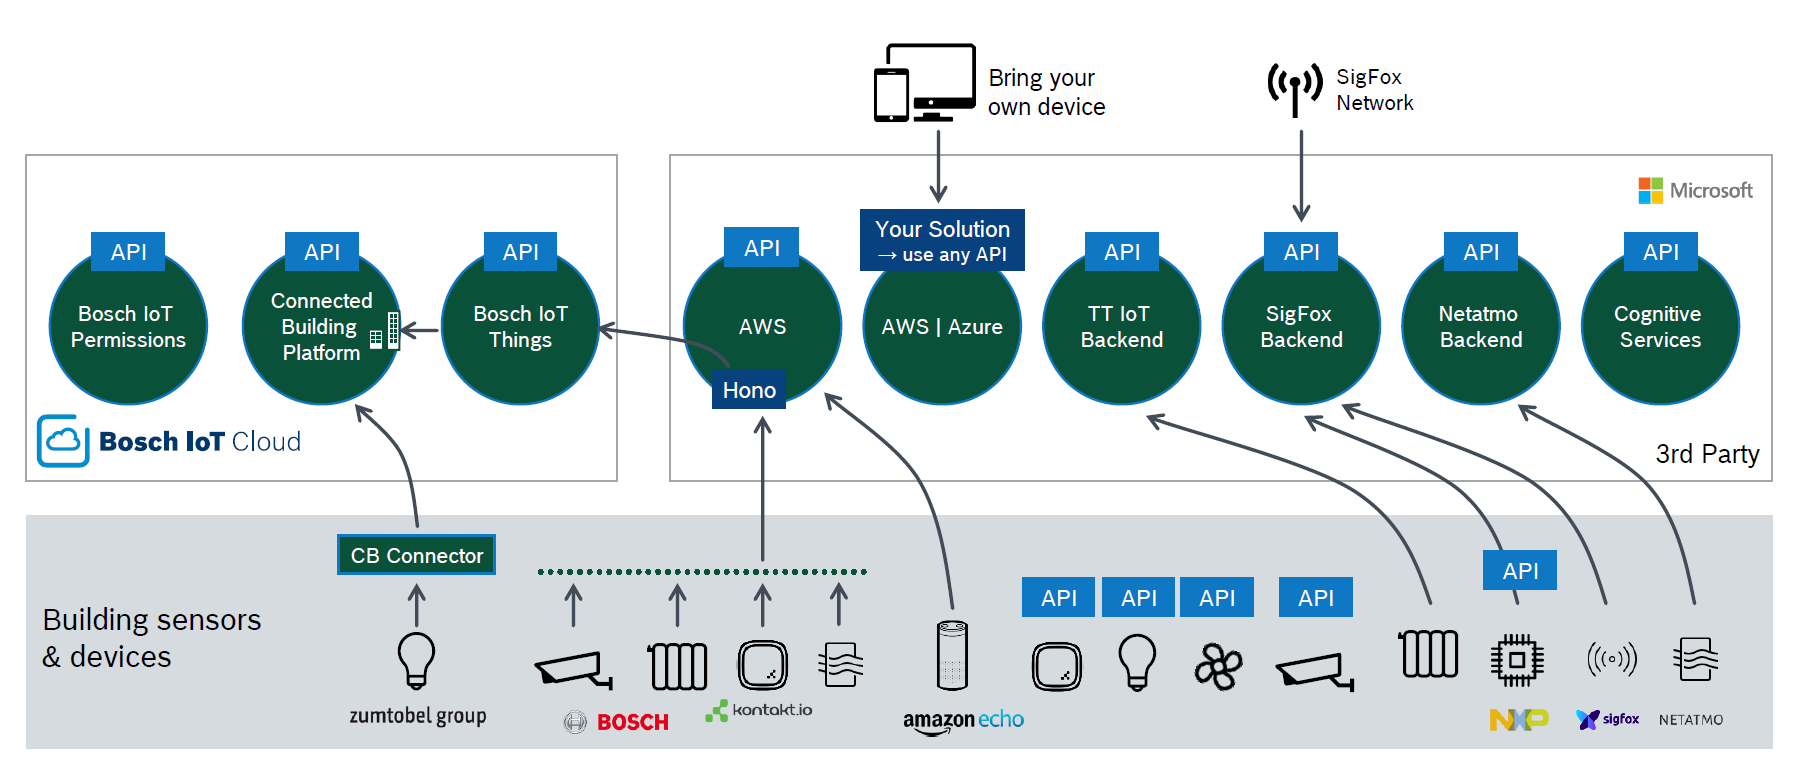
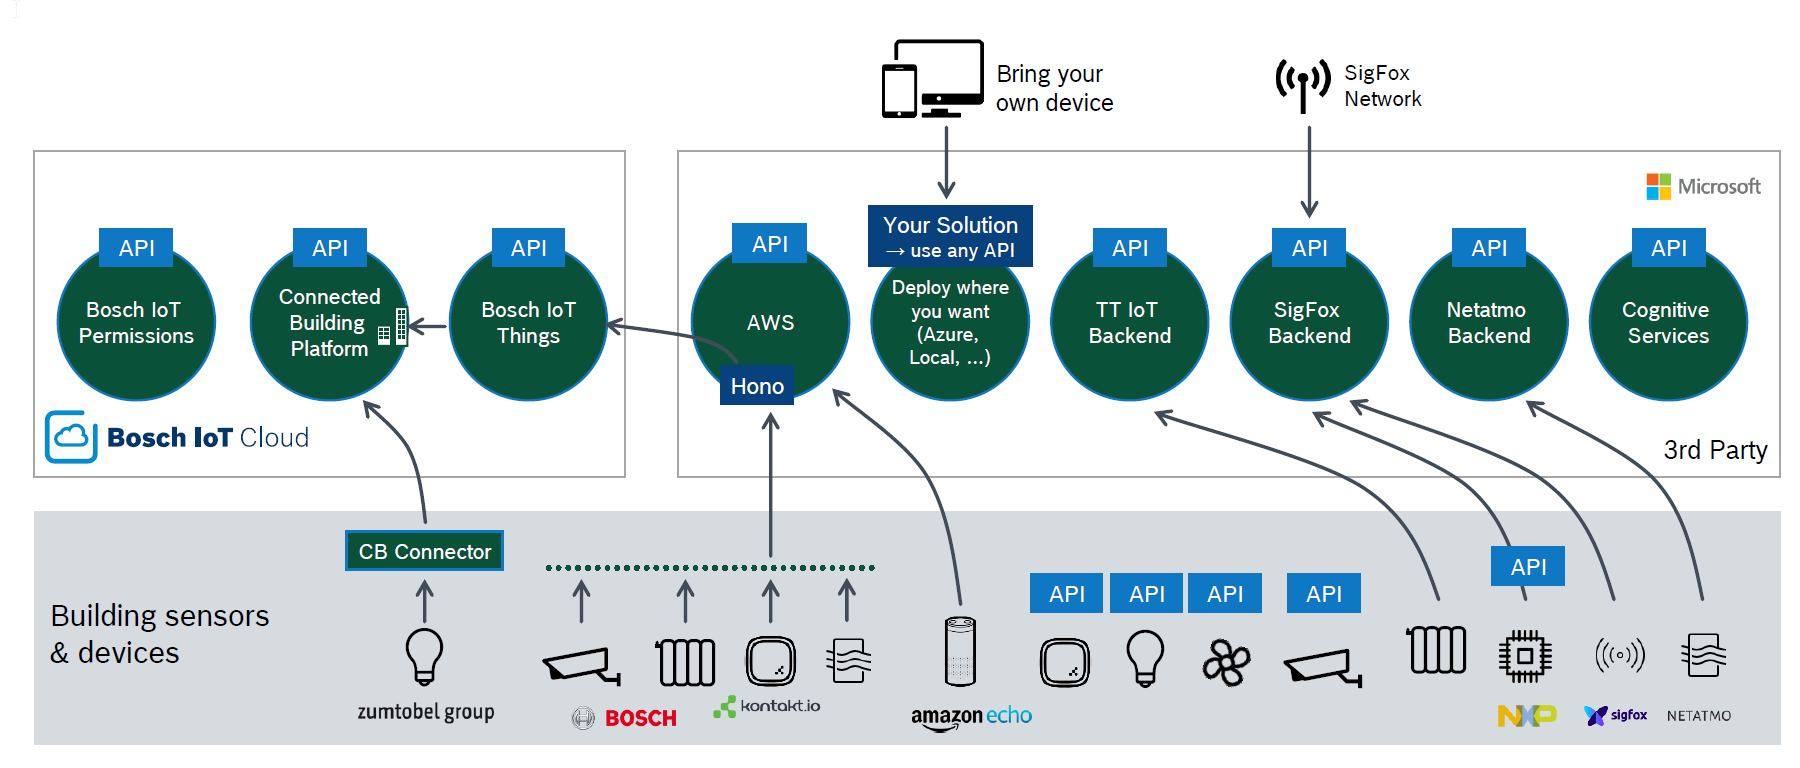
Change deployment info

Changed region(s): [[0.0, 0.0312, 0.9956, 1.0], [0.0, 0.1875, 0.3422, 0.2188]]

diff --git a/index.html b/index.html
@@ -13,7 +13,7 @@
       <img src="building_city.png" id="building-icon">
       <div>
         <h1>Building Hackathon Setup</h1>
-        <h3>Click on the api icons to get to the specs</h3>
+        <h3>Click on the api icons to access to the specs</h3>
       </div>
     </div>
 
@@ -31,53 +31,53 @@
 
       <!-- Row 1  -->
       <a xlink:href="https://de.wikipedia.org/wiki/George_Washington" xlink:show="new">
-        <rect x="90" y="231" opacity="0" width="75" height="40" />
+        <rect x="98" y="228" opacity="0" width="75" height="40" />
       </a>
       <a xlink:href="https://de.wikipedia.org/wiki/Thomas_Jefferson" xlink:show="new">
-        <rect x="284" y="231" opacity="0" width="75" height="40" />
+        <rect x="292" y="228" opacity="0" width="75" height="40" />
       </a>
       <a xlink:href="https://de.wikipedia.org/wiki/Theodore_Roosevelt" xlink:show="new">
-        <rect x="483" y="231" opacity="0" width="75" height="40" />
+        <rect x="491" y="228" opacity="0" width="75" height="40" />
       </a>
       <a xlink:href="https://de.wikipedia.org/wiki/Theodore_Roosevelt" xlink:show="new">
-        <rect x="724" y="227" opacity="0" width="75" height="40" />
+        <rect x="732" y="224" opacity="0" width="75" height="40" />
       </a>
       <!-- Hono  -->
       <a xlink:href="https://de.wikipedia.org/wiki/Theodore_Roosevelt" xlink:show="new">
-        <rect x="712" y="369" opacity="0" width="75" height="40" />
+        <rect x="720" y="366" opacity="0" width="75" height="40" />
       </a>
       <!-- your solution  -->
       <a xlink:href="https://de.wikipedia.org/wiki/Theodore_Roosevelt" xlink:show="new">
-        <rect x="860" y="209" opacity="0" width="165" height="62" />
+        <rect x="868" y="206" opacity="0" width="165" height="62" />
       </a>
       <a xlink:href="https://de.wikipedia.org/wiki/Theodore_Roosevelt" xlink:show="new">
-        <rect x="1085" y="232" opacity="0" width="75" height="40" />
+        <rect x="1093" y="229" opacity="0" width="75" height="40" />
       </a>
       <a xlink:href="https://de.wikipedia.org/wiki/Theodore_Roosevelt" xlink:show="new">
-        <rect x="1264" y="232" opacity="0" width="75" height="40" />
+        <rect x="1272" y="229" opacity="0" width="75" height="40" />
       </a>
       <a xlink:href="https://de.wikipedia.org/wiki/Theodore_Roosevelt" xlink:show="new">
-        <rect x="1443" y="232" opacity="0" width="75" height="40" />
+        <rect x="1451" y="229" opacity="0" width="75" height="40" />
       </a>
       <a xlink:href="https://de.wikipedia.org/wiki/Theodore_Roosevelt" xlink:show="new">
-        <rect x="1624" y="232" opacity="0" width="75" height="40" />
+        <rect x="1632" y="228" opacity="0" width="75" height="40" />
       </a>
 
       <!-- Row 2  -->
       <a xlink:href="https://de.wikipedia.org/wiki/Theodore_Roosevelt" xlink:show="new">
-        <rect x="1021" y="577" opacity="0" width="75" height="40" />
+        <rect x="1029" y="574" opacity="0" width="75" height="40" />
       </a>
       <a xlink:href="https://de.wikipedia.org/wiki/Theodore_Roosevelt" xlink:show="new">
-        <rect x="1101" y="577" opacity="0" width="75" height="40" />
+        <rect x="1109" y="574" opacity="0" width="75" height="40" />
       </a>
       <a xlink:href="https://de.wikipedia.org/wiki/Theodore_Roosevelt" xlink:show="new">
-        <rect x="1179" y="577" opacity="0" width="75" height="40" />
+        <rect x="1187" y="574" opacity="0" width="75" height="40" />
       </a>
       <a xlink:href="https://de.wikipedia.org/wiki/Theodore_Roosevelt" xlink:show="new">
-        <rect x="1278" y="577" opacity="0" width="75" height="40" />
+        <rect x="1286" y="574" opacity="0" width="75" height="40" />
       </a>
       <a xlink:href="https://de.wikipedia.org/wiki/Theodore_Roosevelt" xlink:show="new">
-        <rect x="1483" y="550" opacity="0" width="75" height="40" />
+        <rect x="1491" y="547" opacity="0" width="75" height="40" />
       </a>
     </svg>
   </body>
